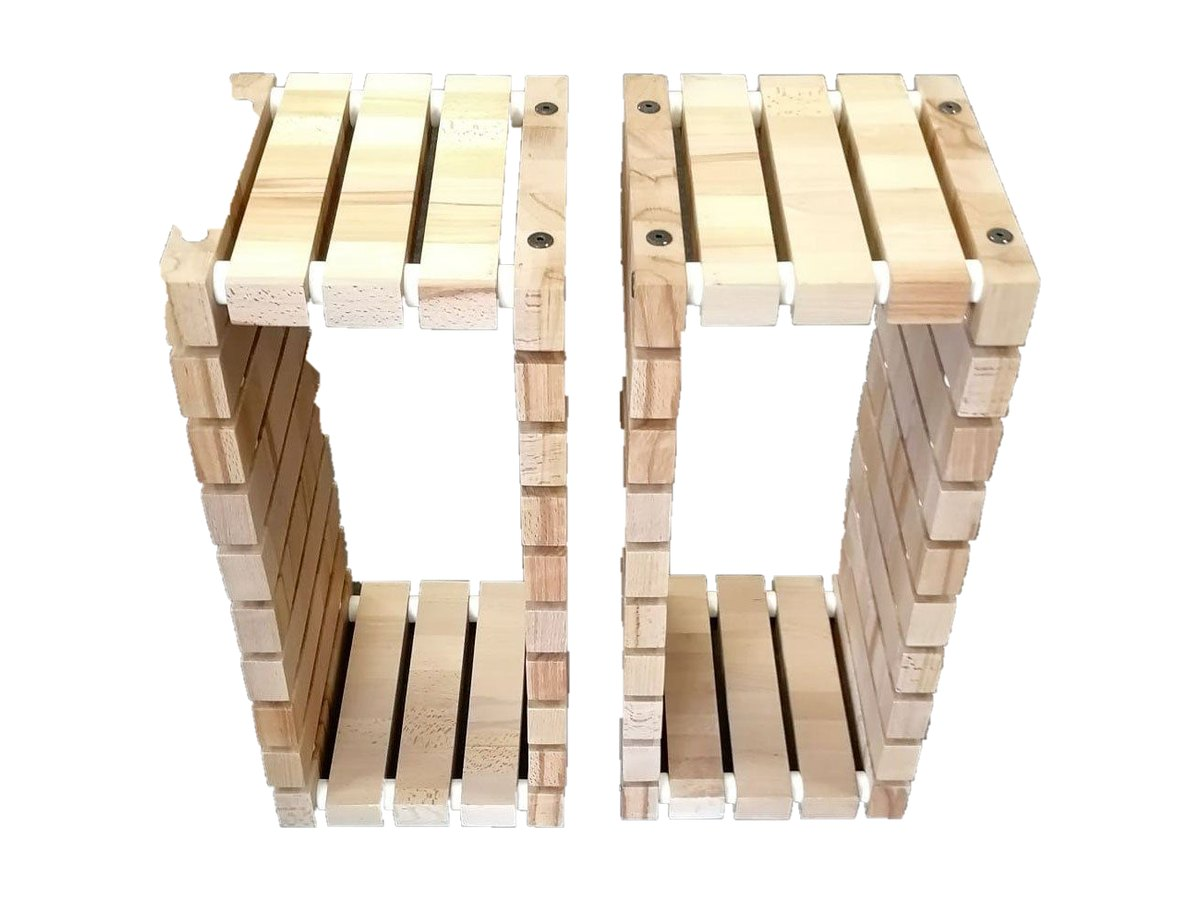
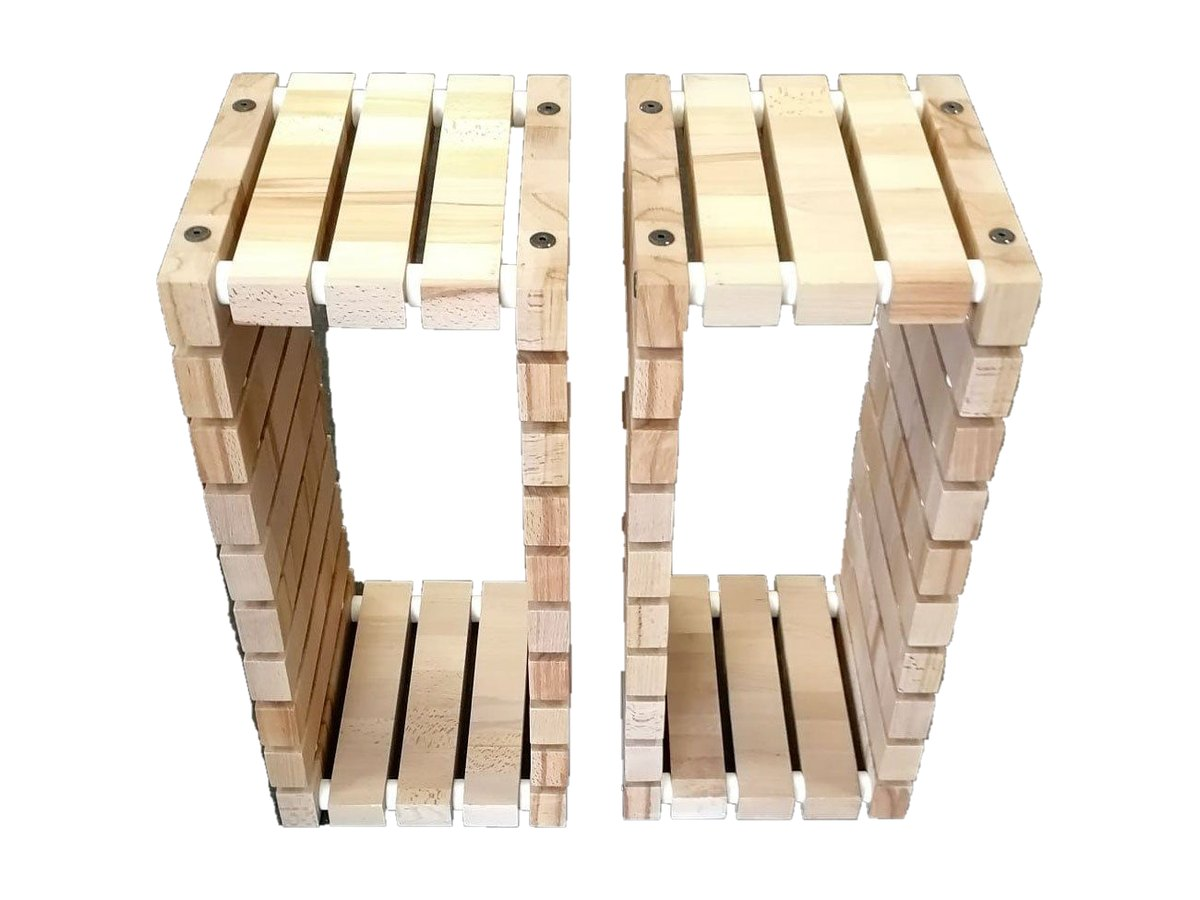
Anteprime Modern Art e Art Triangle ritoccate
Claude-Session: https://claude.ai/code/session_015wvKsictn1Z6RtpeGcB9hV

diff --git a/index.html b/index.html
@@ -112,7 +112,7 @@
       <span class="more">Scopri Stylus</span></div>
     </a>
     <a class="card" href="stand-art-triangle.html">
-      <div class="pic"><img src="images/art-triangle-card.jpg?v=2" alt="Coppia di stand Art Triangle in faggio massello" loading="lazy"></div>
+      <div class="pic"><img src="images/art-triangle-card.jpg?v=3" alt="Coppia di stand Art Triangle in faggio massello" loading="lazy"></div>
       <div class="txt">
       <h3>Stand per diffusori Art Triangle</h3>
       <p>Stand in faggio massello con il fusto aperto da tagli a triangolo: una scultura che regge il diffusore.</p>
@@ -126,7 +126,7 @@
       <span class="more">Scopri Supporti Argon</span></div>
     </a>
     <a class="card" href="stand-modern-art.html">
-      <div class="pic"><img src="images/modern-art-card.jpg?v=2" alt="Coppia di stand Modern Art Grey Buttons in faggio massello" loading="lazy"></div>
+      <div class="pic"><img src="images/modern-art-card.jpg?v=3" alt="Coppia di stand Modern Art Grey Buttons in faggio massello" loading="lazy"></div>
       <div class="txt">
       <h3>Stand per diffusori Modern Art Grey Buttons</h3>
       <p>Stand per diffusori a telaio, fatti di listelli in faggio massello fissati con bottoni grigi: leggeri da vedere, solidi da usare.</p>

diff --git a/stand-per-diffusori.html b/stand-per-diffusori.html
@@ -66,14 +66,14 @@
       <span class="more">Scopri Stylus</span></div>
     </a>
     <a class="card" href="stand-art-triangle.html">
-      <div class="pic"><img src="images/art-triangle-card.jpg?v=2" alt="Coppia di stand Art Triangle in faggio massello" loading="lazy"></div>
+      <div class="pic"><img src="images/art-triangle-card.jpg?v=3" alt="Coppia di stand Art Triangle in faggio massello" loading="lazy"></div>
       <div class="txt">
       <h3>Stand per diffusori Art Triangle</h3>
       <p>Stand in faggio massello con il fusto aperto da tagli a triangolo: una scultura che regge il diffusore.</p>
       <span class="more">Scopri Art Triangle</span></div>
     </a>
     <a class="card" href="stand-modern-art.html">
-      <div class="pic"><img src="images/modern-art-card.jpg?v=2" alt="Coppia di stand Modern Art Grey Buttons in faggio massello" loading="lazy"></div>
+      <div class="pic"><img src="images/modern-art-card.jpg?v=3" alt="Coppia di stand Modern Art Grey Buttons in faggio massello" loading="lazy"></div>
       <div class="txt">
       <h3>Stand per diffusori Modern Art Grey Buttons</h3>
       <p>Stand per diffusori a telaio, fatti di listelli in faggio massello fissati con bottoni grigi: leggeri da vedere, solidi da usare.</p>
